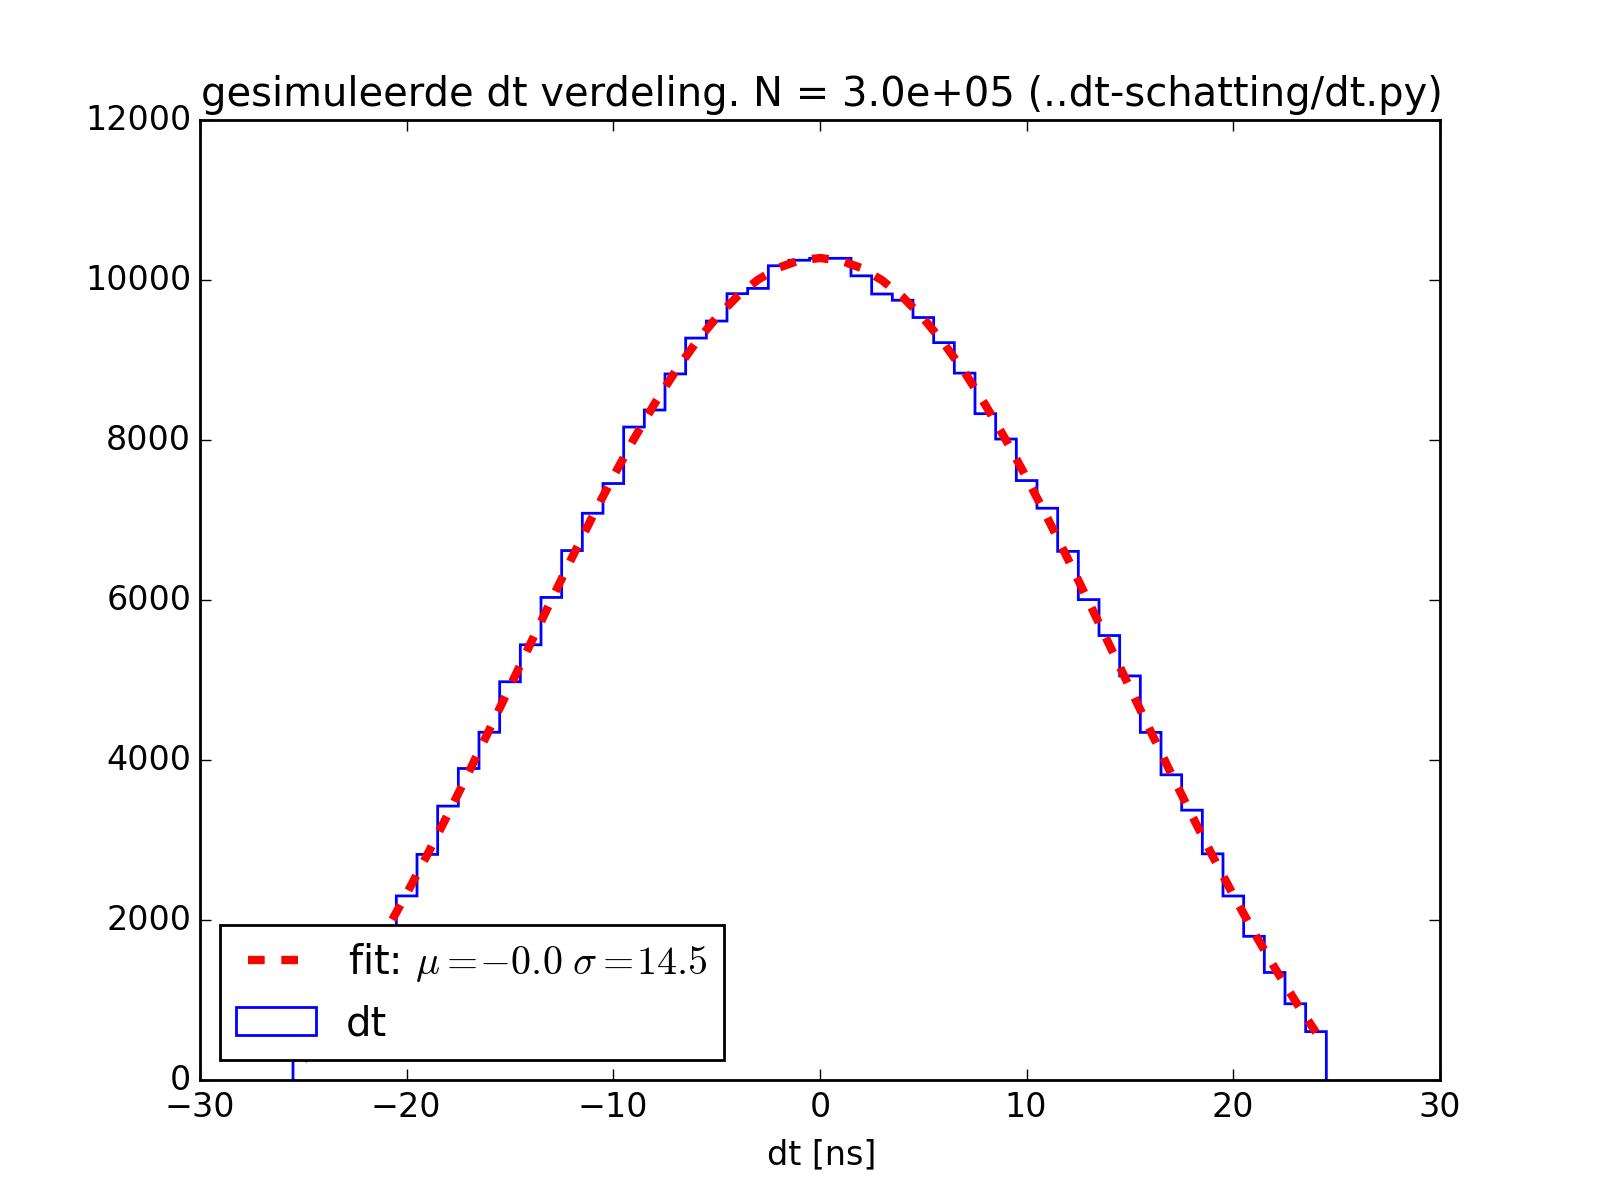
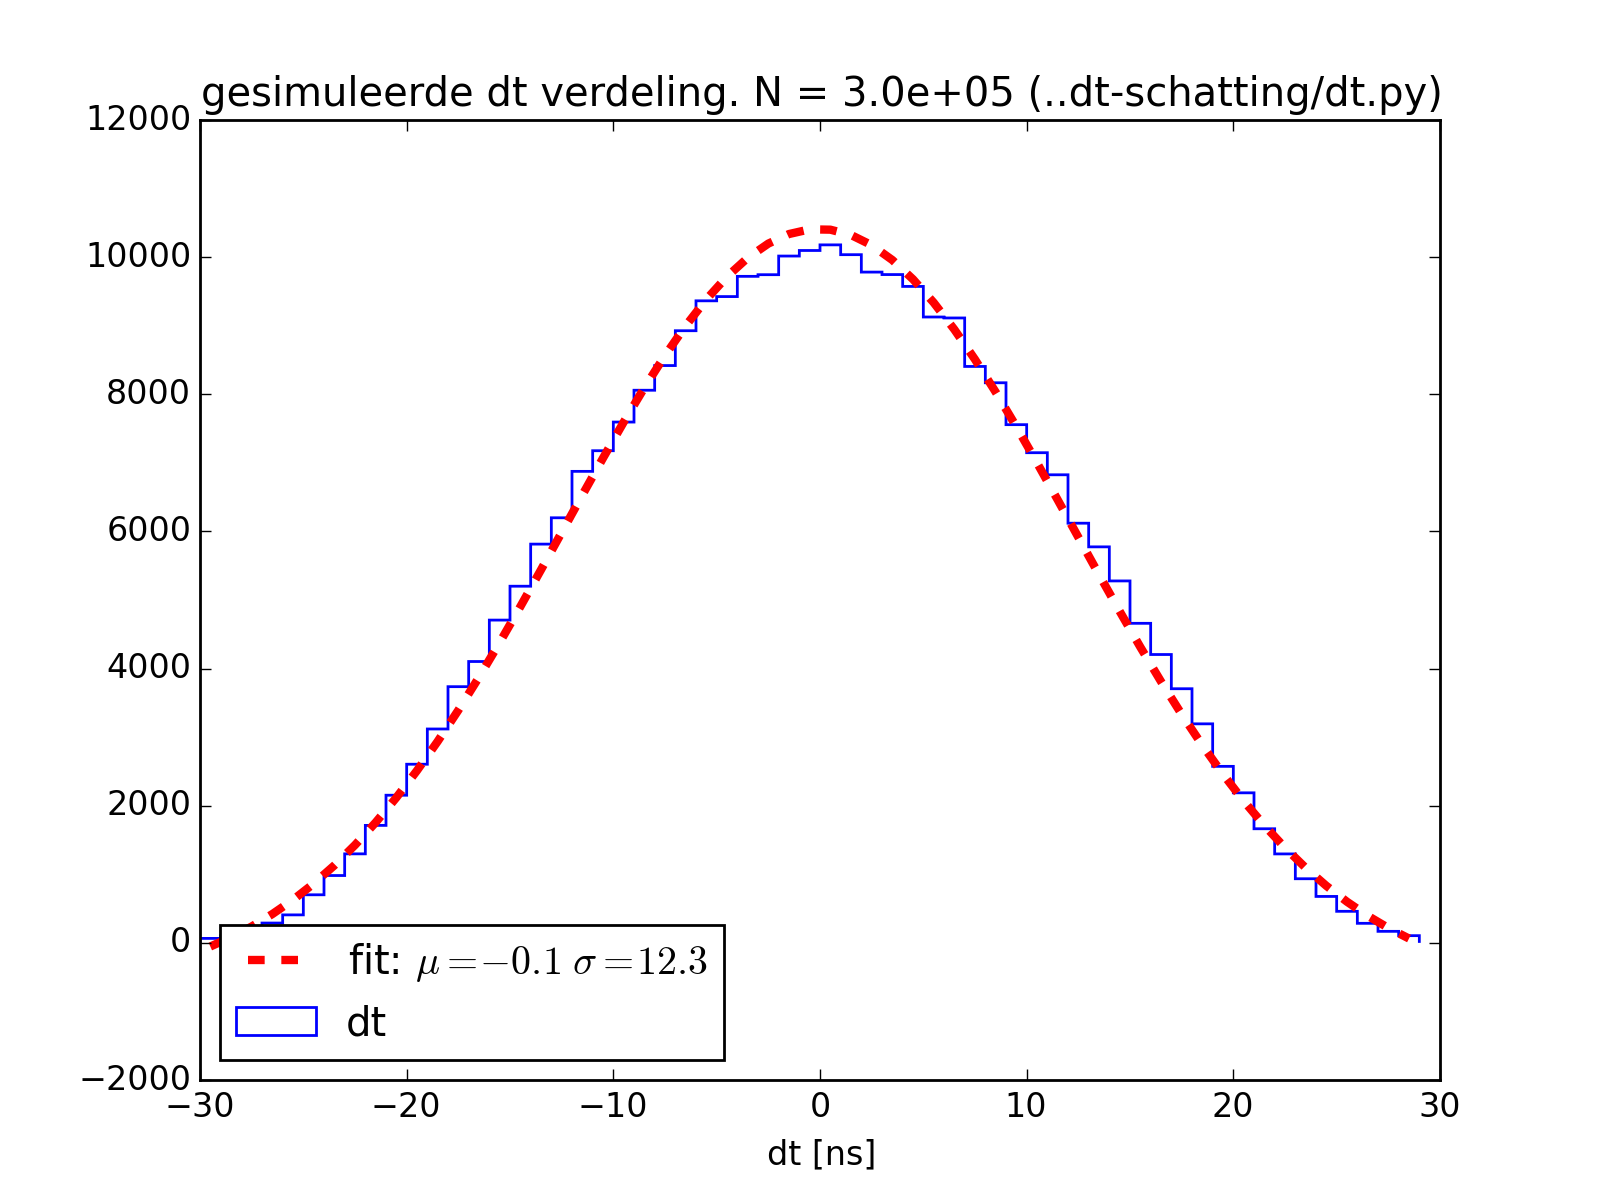
dt schatting voor lio-verslag

diff --git a/dt-schatting/select.py b/dt-schatting/select.py
@@ -38,7 +38,7 @@ ITERATIONS = 40
 
 CORSIKAPATH = '/data/hisparc/corsika/data/'
 INDEXFILE = '/data/hisparc/corsika/corsika_overview.h5'
-OUTPUTFILE = '1day_1e14eV.h5'
+OUTPUTFILE = '1day_1e15ev_fotons.h5'
 
 def round_to_7_5(x, base=7.5):
     return base * round(float(x)/base)
@@ -114,6 +114,8 @@ if __name__ == '__main__':
     ph4 = n4 * MIP
 
     dt_all = (t1-t2).compress((t1 > 0) & (t2 > 0) & ((t1-t2) < 50.))
+    dt_t1hoog_t2hoog = (t1-t2).compress((t1 > 0) & (t2 > 0) & ((t1-t2) < 50.)
+                                        & (ph2 > HIGH_PH) & (ph1 > HIGH_PH))
     dt_t1hoog_t2laag = (t1-t2).compress((t1 > 0) & (t2 > 0) & ((t1-t2) < 50.)
                                         & (ph2 < LOW_PH) & (ph1 > HIGH_PH))
     dt_t1laag_t2hoog = (t1-t2).compress((t1 > 0) & (t2 > 0) & ((t1-t2) < 50.)
@@ -121,13 +123,34 @@ if __name__ == '__main__':
     dt_t1laag_t2laag = (t1-t2).compress((t1 > 0) & (t2 > 0) & ((t1-t2) < 50.)
                                         & (ph1 < LOW_PH) & (ph2 < LOW_PH))
 
-    print dt_all.size, dt_t1laag_t2laag.size
+    print dt_all.size, dt_t1hoog_t2hoog.size, dt_t1laag_t2laag.size, dt_t1laag_t2hoog.size, dt_t1hoog_t2laag.size
 
     bins2ns5 = np.arange(-41.25, 41.26, 2.5)
-    plt.figure()
-    plt.hist(dt_all, bins2ns5, histtype='step')
-    plt.title('Histogram t1-t2.  ph1,ph2 == HOOG')
-    plt.xlabel('t1-t2 [ns]')
-    plt.show()
 
-    print "t1-t2, std dev: %2.1f ns. " % np.std(dt_all)
+    grafiek = plt.figure()
+
+    grafiek11 = grafiek.add_subplot(221)
+    grafiek12 = grafiek.add_subplot(222)
+    grafiek21 = grafiek.add_subplot(223)
+    grafiek22 = grafiek.add_subplot(224)
+
+    grafiek11.hist(dt_t1hoog_t2hoog, bins2ns5, histtype='step')
+    grafiek11.set_title('ph1,ph2 == HOOG')
+    #grafiek11.set_xlabel('t1-t2 [ns]')
+
+    grafiek12.hist(dt_t1laag_t2laag, bins2ns5, histtype='step')
+    grafiek12.set_title('ph1,ph2 == LAAG')
+    #grafiek12.set_xlabel('t1-t2 [ns]')
+
+    grafiek21.hist(dt_t1laag_t2hoog, bins2ns5, histtype='step')
+    grafiek21.set_title('ph1,ph2 == LAAG, HOOG')
+    grafiek21.set_xlabel('t1-t2 [ns]')
+
+    grafiek22.hist(dt_t1hoog_t2laag, bins2ns5, histtype='step')
+    grafiek22.set_title('ph1,ph2 == HOOG, LAAG')
+    grafiek22.set_xlabel('t1-t2 [ns]')
+
+    grafiek.show()
+
+    print "t1-t2, std dev (HOOG HOOG): %2.1f ns. " % np.std(dt_t1hoog_t2hoog)
+    print "t1-t2, std dev (LAAG LAAG): %2.1f ns. " % np.std(dt_t1laag_t2laag)

diff --git a/dt-schatting/dt.py b/dt-schatting/dt.py
@@ -10,6 +10,9 @@ import progressbar as pb
 import matplotlib.pyplot as plt
 import gauss_fit_histogram
 
+FOKKEMA = 2.5  # spreiding op een tijdmeting uit Fokkema2012 H4.
+RESOLUTIE = FOKKEMA*np.sqrt(2)  # tijdverschil dus sigma * srt(2)
+
 progress = pb.ProgressBar(widgets=[pb.Percentage(),pb.Bar(), pb.ETA()])
 STAPPEN =  187
 
@@ -41,13 +44,13 @@ if __name__ == '__main__':
                 # waarbij de tijdsverschillen met grote kans vaker voorkomen
                 # en random "versmering" met sigma = 2.5ns
                 for item in np.arange(0, weging, 1.):
-                    dt_list.append((delta_t) + np.random.normal(0,2.5))
+                    dt_list.append((delta_t) + np.random.normal(0,RESOLUTIE))
 
     print "gem, stddev = ",np.mean(dt_list), np.std(dt_list)
 
 
     plt.figure()
-    n1, bins1, blaat = plt.hist(dt_list, histtype='step', bins=np.arange(-25.5,25.5,1.))
+    n1, bins1, blaat = plt.hist(dt_list, histtype='step', bins=np.arange(-30,30,1.))
 
     sigma_list = np.sqrt(dt_list)
     c, fitx, fity = gauss_fit_histogram.gauss_fit_histogram(n1, bins1, sigma=np.sqrt(n1))

diff --git a/dt-schatting/single_sim_for_stoomboot.py b/dt-schatting/single_sim_for_stoomboot.py
@@ -4,16 +4,16 @@
 from __future__ import division
 
 from sapphire.simulations.groundparticles import GroundParticlesSimulation
-from sapphire.clusters import SingleDiamondStation
+from sapphire.clusters import SingleTwoDetectorStation
 
 import tables
 
-max_r = 25
-N = 5
+max_r = 100
+N = 1e5
 cluster = SingleDiamondStation()
 
 CORSIKAFILE = '/data/hisparc/corsika/data/{seed}/corsika.h5'
-OUTPUTFILE = '/data/hisparc/tom/simruns/s15eV_no_fotons/{seed}.h5'
+OUTPUTFILE = '/data/hisparc/tom/simruns/twodetector/{seed}.h5'
 
 with tables.open_file(OUTPUTFILE, 'w') as data:
     sim = GroundParticlesSimulation(CORSIKAFILE, max_r, cluster, data, '/simrun', N, progress=False)
